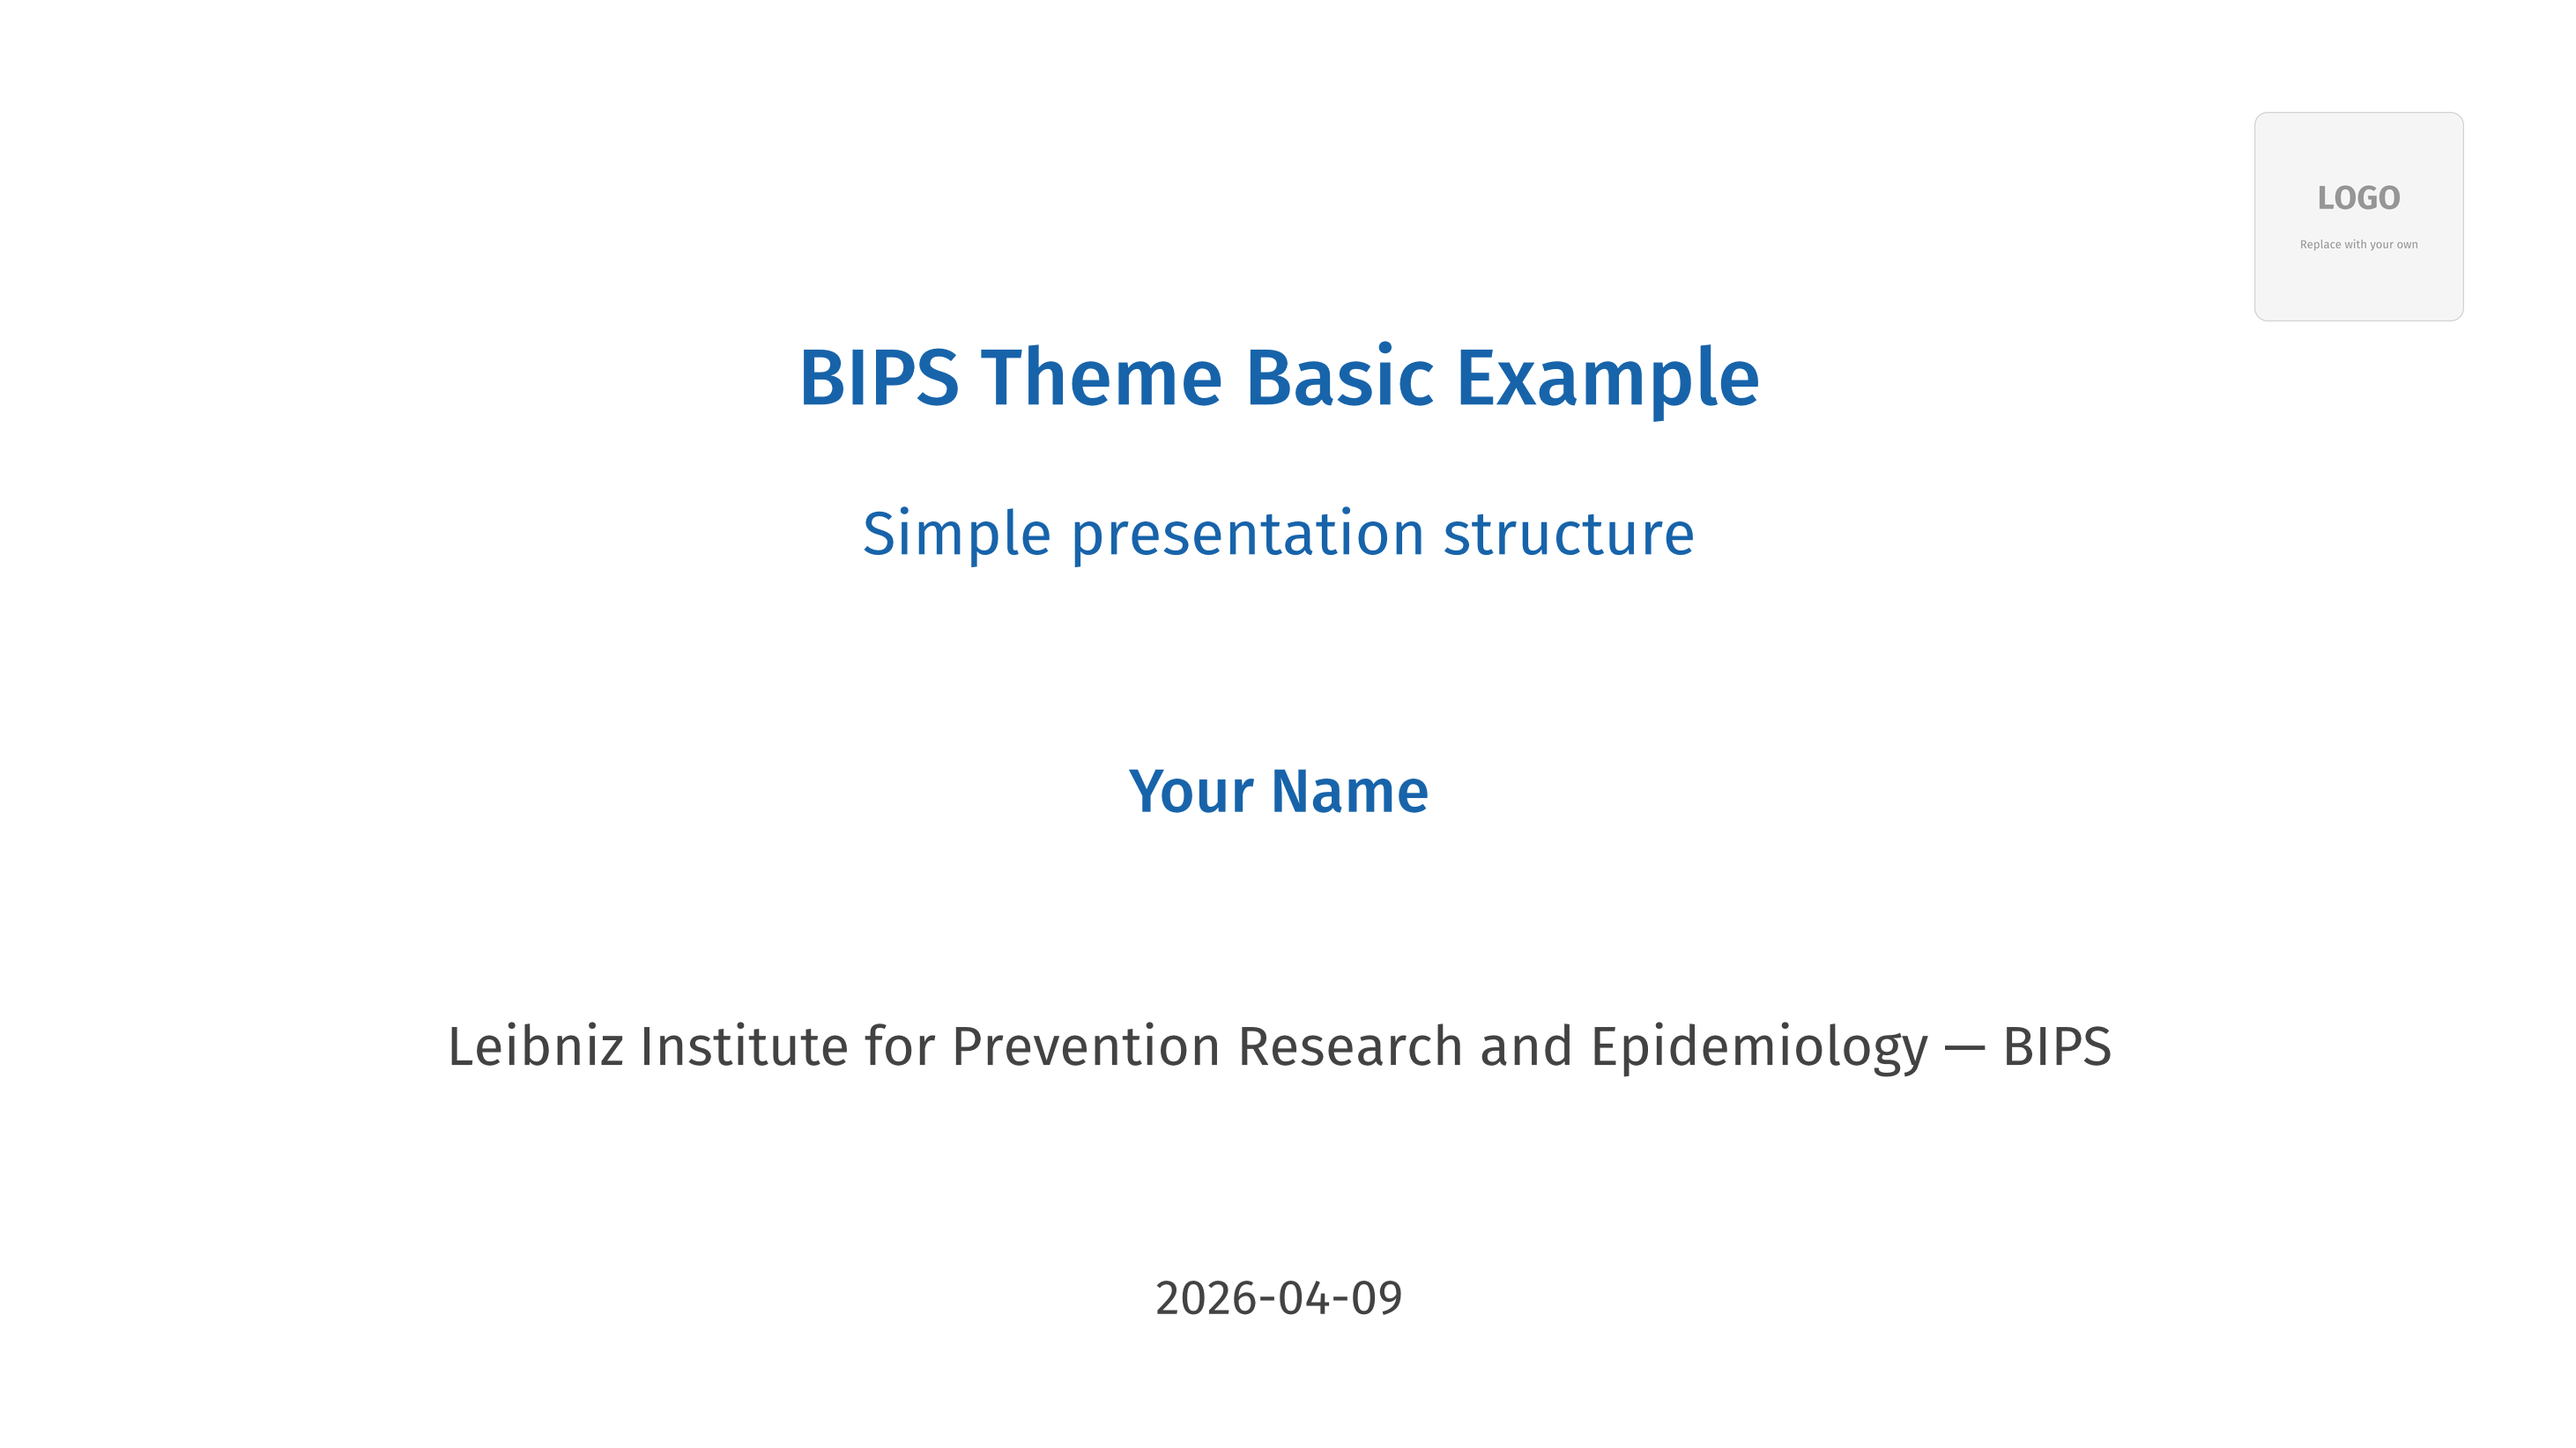
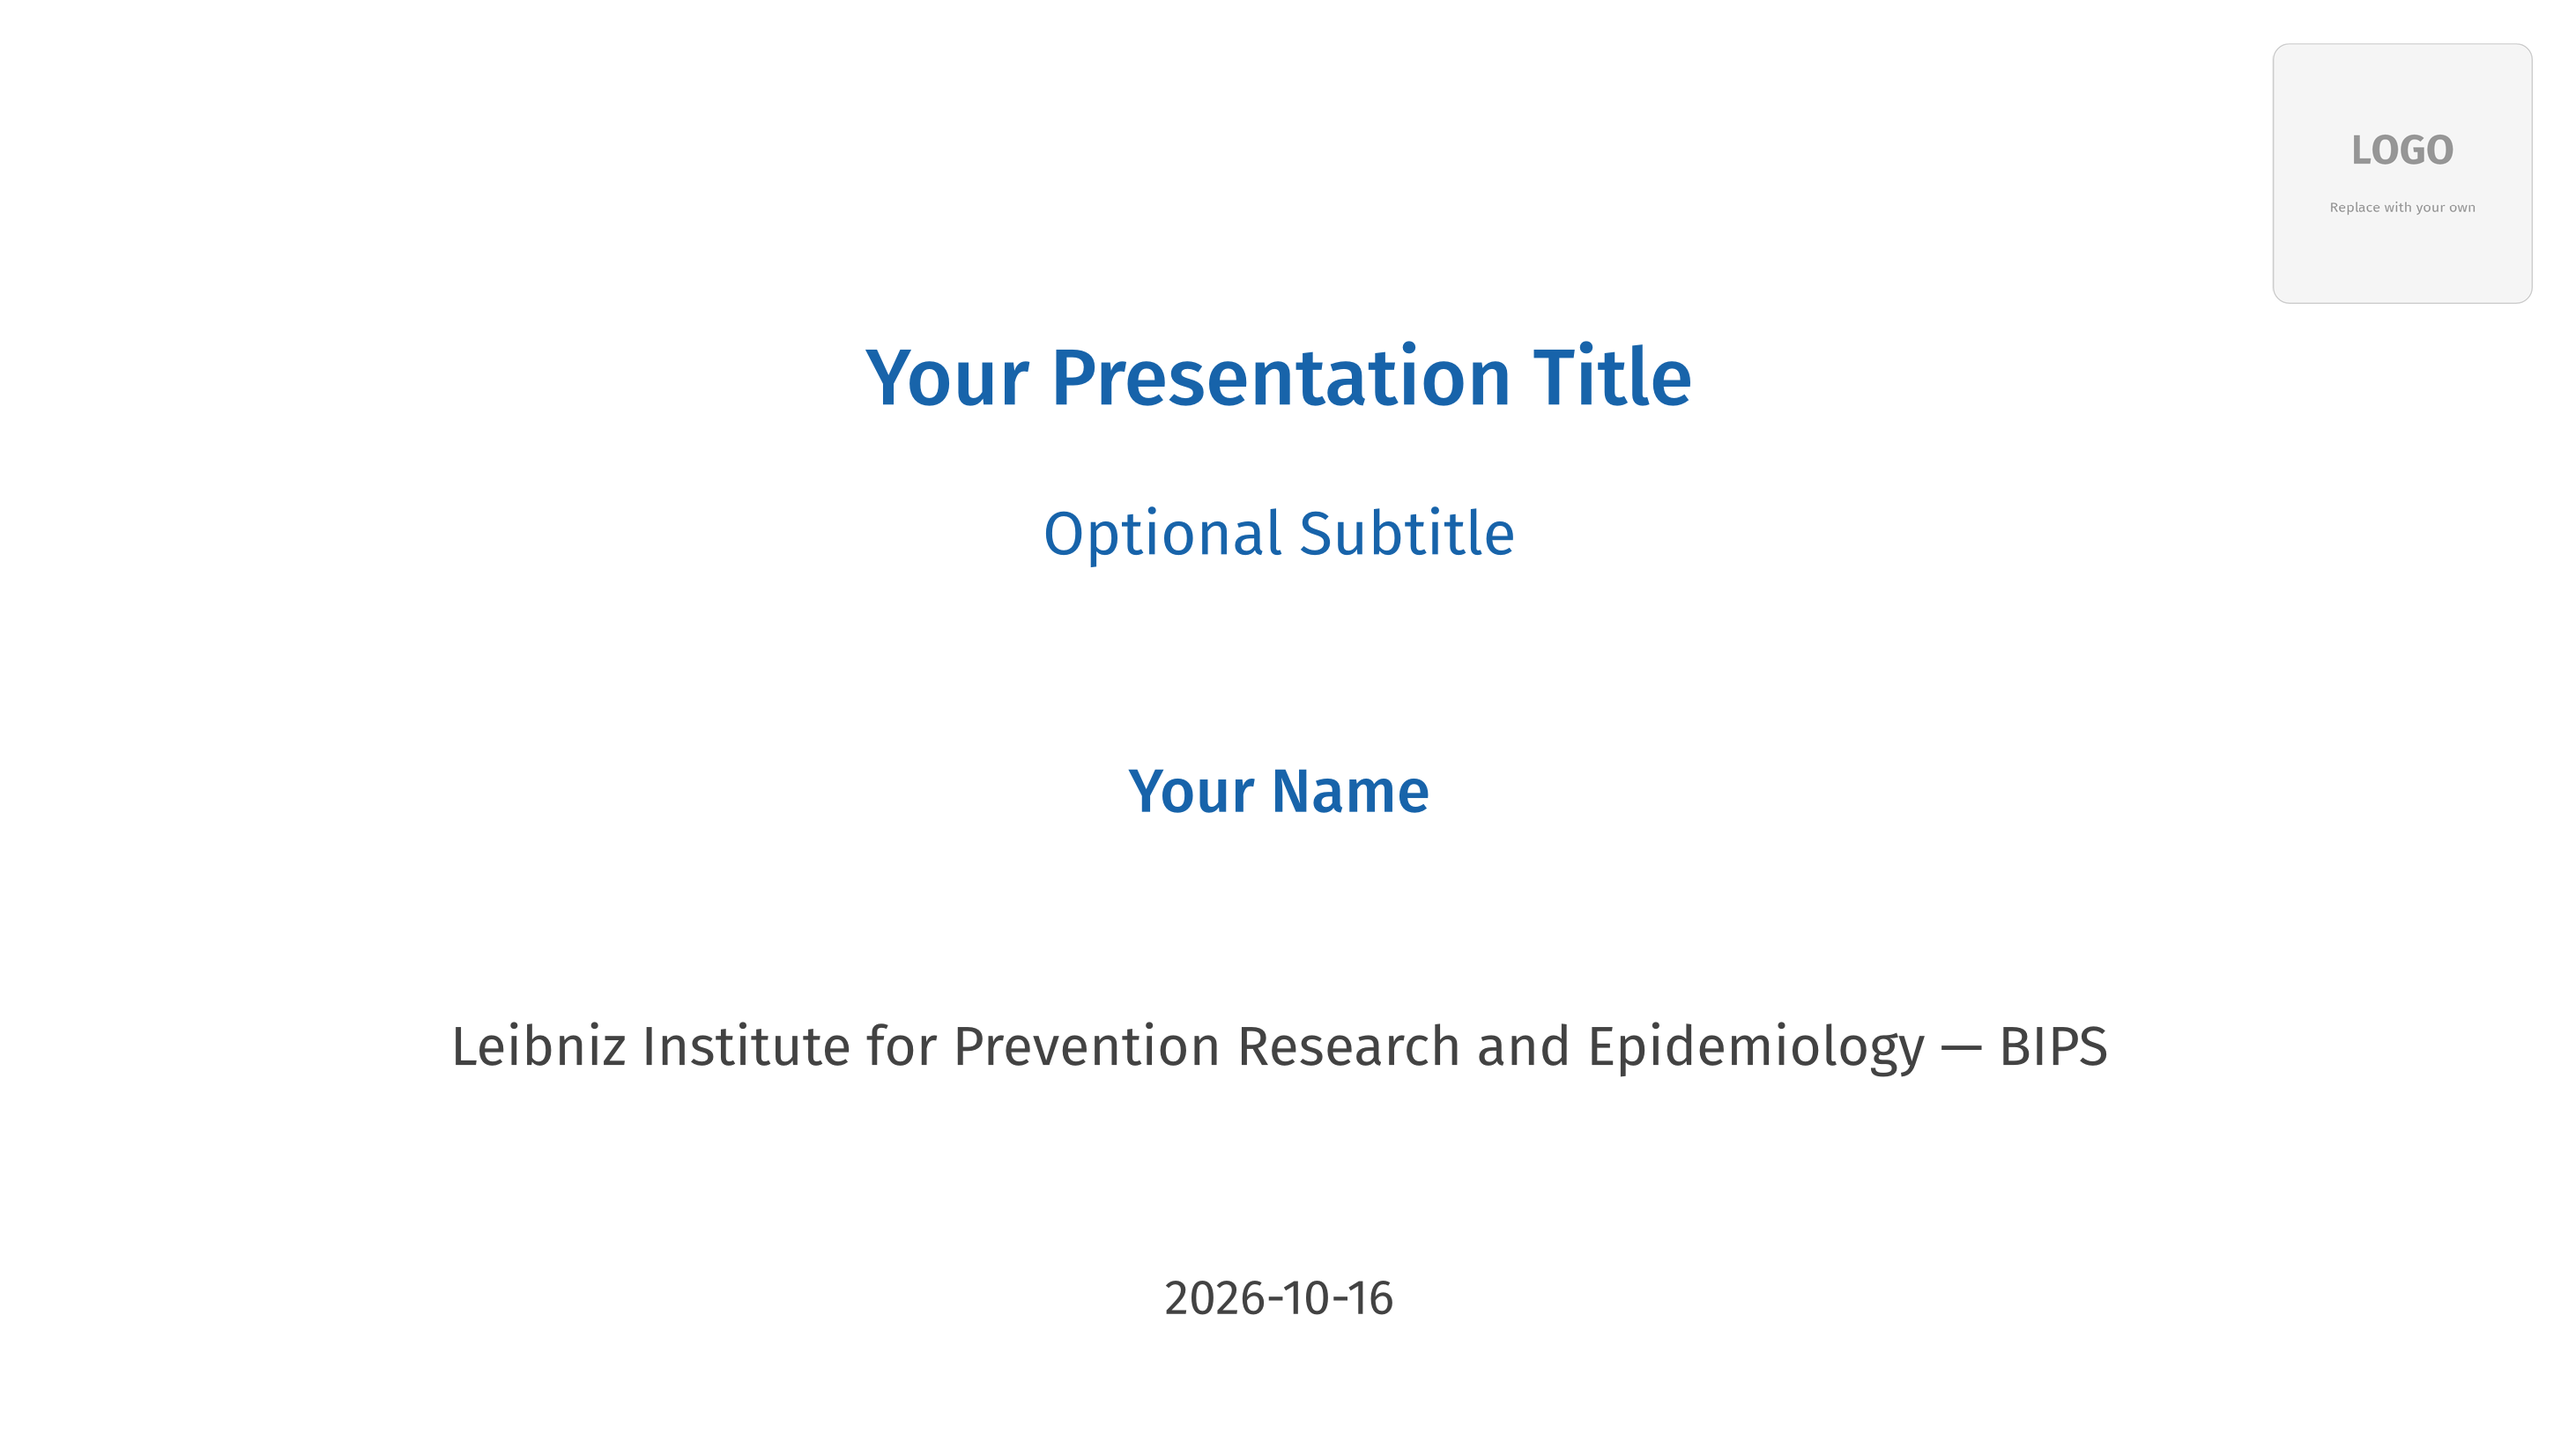
various cleanup/formatting/chores

diff --git a/README.md b/README.md
@@ -120,6 +120,17 @@ superscript marker linking an author to the *n*-th entry of `institutions:`:
 Unlike the singular forms, the plurals are not read from `config-info()`.
 Putting them there has no effect.
 
+### Title slide sizes
+
+Each line of the title slide takes its own size override, e.g. a larger name for a single-speaker talk:
+
+```typst
+#title-slide(author-size: 26pt)
+```
+
+The defaults are `title-size: 26pt`, `subtitle-size: 20pt`, `author-size: 20pt`, `institution-size: 18pt` and `date-size: 16pt` (`date-size` also applies to `occasion`).
+`author-size` and `institution-size` apply to the plural `authors:` and `institutions:` as well.
+
 ### Section slides
 
 ```typst
@@ -325,6 +336,7 @@ It is off by default. The bar appears only on counted content slides, so title, 
 ```typst
 #show: bips-theme.with(
   aspect-ratio: "16-9",       // default
+  title-align: left,          // slide title alignment: left (default), center, right
   // Font families (string or array with fallbacks)
   font: "Fira Sans",
   code-font: "Fira Mono",
@@ -354,18 +366,11 @@ It is off by default. The bar appears only on counted content slides, so title, 
 
 ## Examples
 
-The `gallery/` directory contains example presentations:
+The [`gallery/`](https://github.com/bips-hb/bips-typst/tree/main/gallery) directory in the repository holds example decks, one per feature area or ecosystem topic (citations, speaker notes, diagrams, data visualisation, a German deck, R with knitr, and more); its README lists them all.
+They are not part of the package.
 
-- `basic.typ` — starter template
-- `complete.typ` — comprehensive feature showcase
-- `bibliography.typ` — citations and references
-- `aspect-ratio.typ` — 4:3 format
-- `lecture-demo.typ` — realistic 100-slide scale test
-- `speaker-notes.typ` — presenter notes (pdfpc export and inline preview)
-- `typst-basics.typ` — native Typst features (quotes, term lists, tables, figures, footnotes, code, links, refs)
-- `diagrams.typ` — drawing and diagrams with CeTZ and Fletcher (TikZ-style)
-- `dataviz.typ` — ggplot2-style grammar-of-graphics plots with gribouille
-- `german.typ` — German-language deck; one `#set text(lang: "de")` localizes Typst and the theme together
+`typst init @preview/bypst` starts from the `basic` template.
+The package also ships `complete.typ`, a longer template that walks through the theme's features.
 
 ## Development
 
@@ -373,10 +378,13 @@ The `gallery/` directory contains example presentations:
 just install    # install package locally
 just all        # compile all gallery demos
 just test       # run test suite
+just format     # format all Typst sources
+just fonts      # download the Fira fonts into .fonts/
 just clean      # remove generated PDFs
 ```
 
-After editing theme files, run `just install` before compiling.
+Gallery decks and tests import the theme from the working tree, so they pick up edits immediately.
+Run `just install` again only for decks that import `@local/bypst`.
 
 ### Project Structure
 
@@ -388,6 +396,7 @@ src/
   helpers.typ    # internal plumbing (title area, page number, background)
   slides.typ     # slide types
   extras.typ     # public layout/color utilities
+docs/            # design notes and architecture decision records
 logo.png         # bundled placeholder logo (override via bips-theme(logo: ...))
 bips-logo.png    # the real BIPS logo (not shipped in the package)
 typst.toml       # package metadata
@@ -430,7 +439,7 @@ Override the families with the `font:`, `code-font:`, and `math-font:` parameter
 ## Requirements
 
 - Typst >= 0.15.0
-- Dependencies: touying and codetastic, resolved automatically by Typst (exact versions live in `typst.toml` and `src/`)
+- Dependencies: touying and codetastic, resolved automatically by Typst (exact versions are in the imports of `src/theme.typ` and `src/slides.typ`)
 
 ## License
 

diff --git a/CHANGELOG.md b/CHANGELOG.md
@@ -23,6 +23,7 @@ The format is based on [Keep a Changelog](https://keepachangelog.com/en/1.1.0/).
 - Term lists (`/ Term: definition`) now use the same line metrics and item spacing as bullet and numbered lists. Previously they inherited Typst defaults and rendered roughly half an em tighter per row than the surrounding lists. `#compact[]` and nesting inside a list/enum tighten them alongside the other list types.
 - Block quotes (`#quote(block: true)`) now carry a thin left rule in the same light blue as table borders, with the attribution set small and blue below. Typst's default renders a block quote flush left with no marker, so it read as ordinary body text. `#callout()` keeps the heavier 4pt rule plus fill, so the two stay tellable apart. Inline quotes are untouched.
 - Figure captions are set at `caption-scale` (0.8) of the surrounding text size instead of full body size. Relative, so `#small[]` and a changed `base-size` both carry through.
+- Package templates: `basic` reads its title fields from `config-info()` and shows a reveal and a callout; `complete` now tours the theme's features (cards, callouts, citations with a bundled `references.bib`, styled tables, figures and quotes, composer panes, progress bar, references and thanks slides).
 
 ### Fixed
 

diff --git a/gallery/README.md b/gallery/README.md
@@ -10,7 +10,7 @@ Ready-to-use examples showcasing different features of the bypst theme.
 | `complete.typ` | Full feature showcase: text formatting, columns, callouts, images, tables, math, animations, customization |
 | `bibliography.typ` | Citations and reference management with `.bib` files |
 | `aspect-ratio.typ` | Using 4:3 format instead of the default 16:9 |
-| `lecture-demo.typ` | Realistic 100-slide lecture for scale testing |
+| `lecture-demo.typ` | Realistic 60-slide lecture for scale testing |
 | `speaker-notes.typ` | Speaker notes via pdfpc — presenter console plus an inline-notes preview |
 | `typst-basics.typ` | Native Typst features: quotes, term lists, tables, figures, footnotes, code, links, refs |
 | `diagrams.typ` | Drawing and diagrams with CeTZ and Fletcher (TikZ-style) |
@@ -34,6 +34,6 @@ just all
 ## Creating Your Own
 
 1. Copy `basic.typ` as your starting point
-2. Import the theme: `#import "@local/bypst:0.6.0": *`
+2. Import the theme: `#import "@preview/bypst:0.6.0": *`
 3. Refer to `complete.typ` for feature examples
 4. Compile and present!

diff --git a/AGENTS.md b/AGENTS.md
@@ -87,10 +87,9 @@ reasons to skip a check — each has a substitute:
 
 - `just all` — compile every gallery deck, plus the speaker-notes pdfpc sidecar
   and inline-notes preview
-- `just test` / `just test-verbose` — tytanic suite (compile-only feature tests
-  plus a template test)
-- `just compile-check` — compile every gallery deck **and** every test with
-  whatever `typst` is on `PATH`. This is the only version-compatibility check:
+- `just test` / `just test-verbose` — tytanic suite (compile-only feature tests)
+- `just compile-check` — compile every gallery deck, every test **and** both
+  package templates with whatever `typst` is on `PATH`. This is the only version-compatibility check:
   `just test` runs tytanic, which embeds its own Typst and therefore pins one
   version regardless of what is installed. CI runs this across the version
   matrix; locally, put another Typst first on `PATH`.
